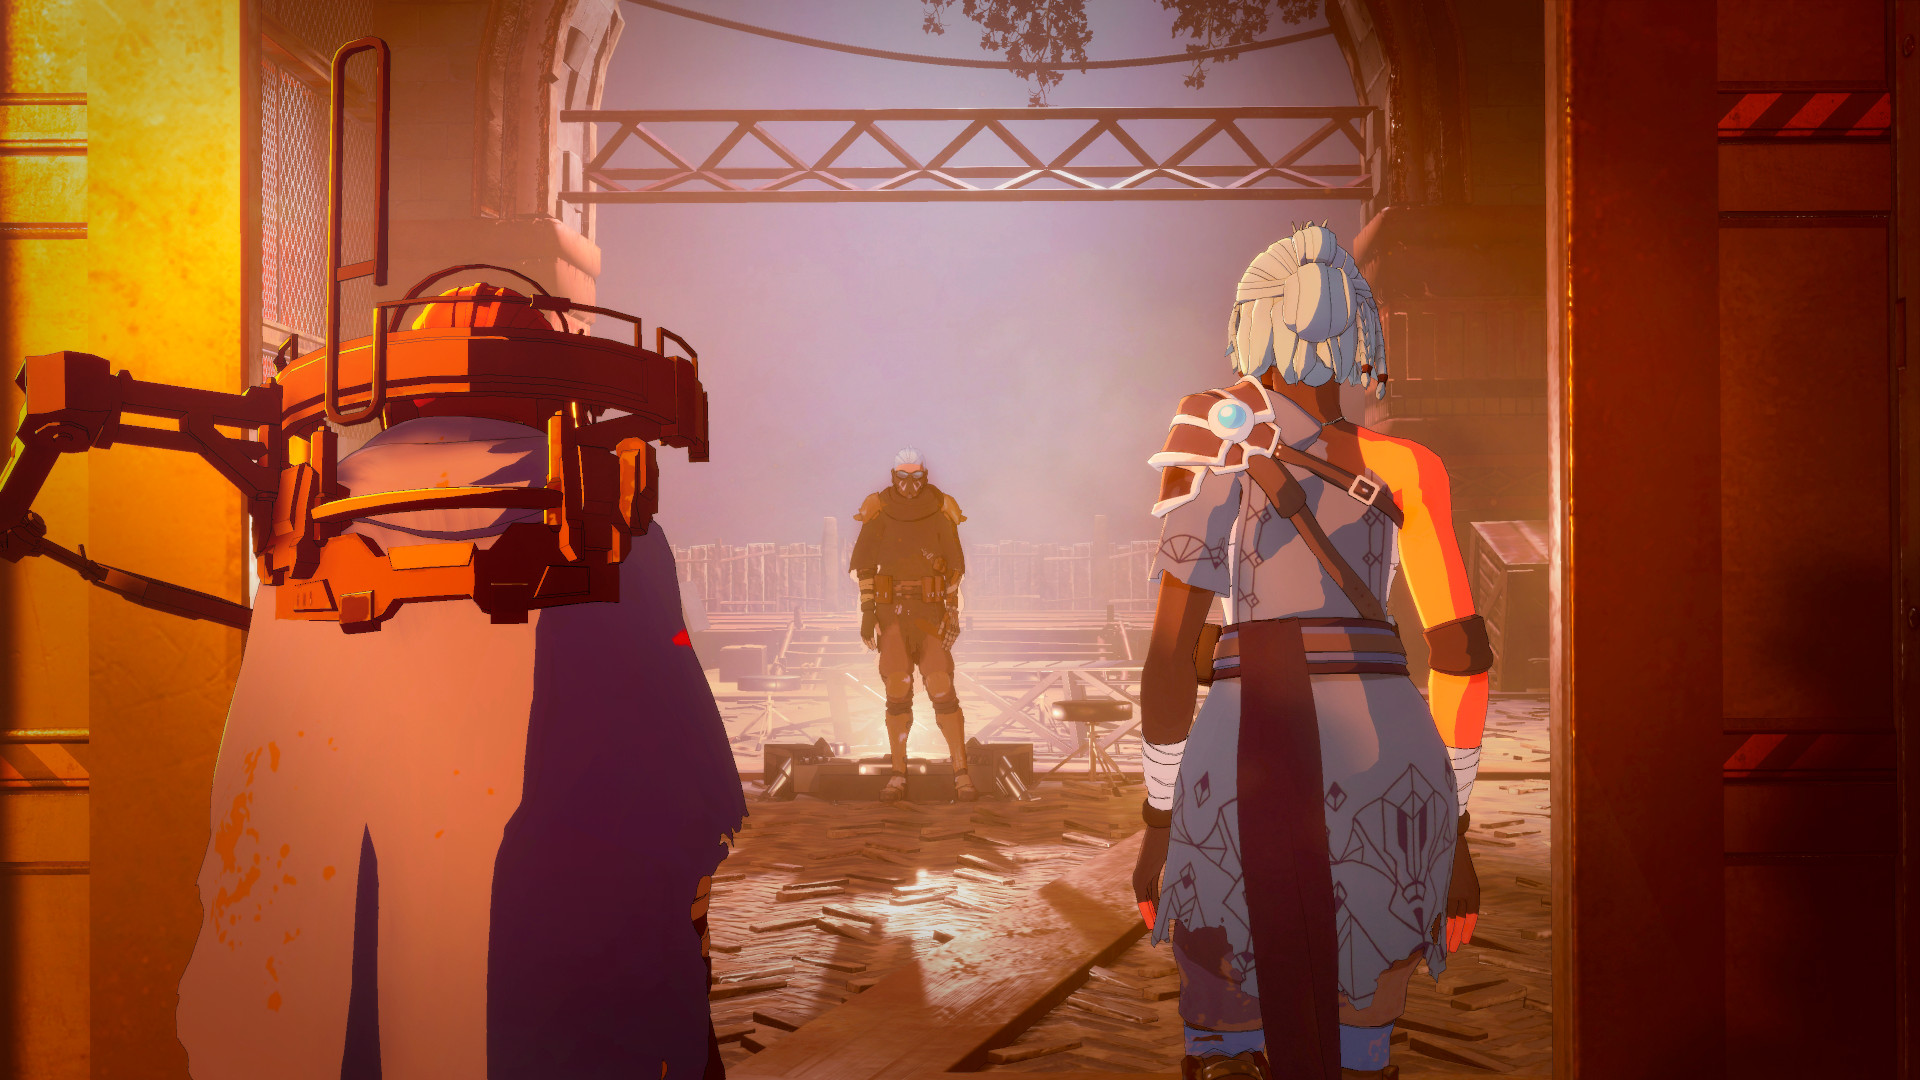
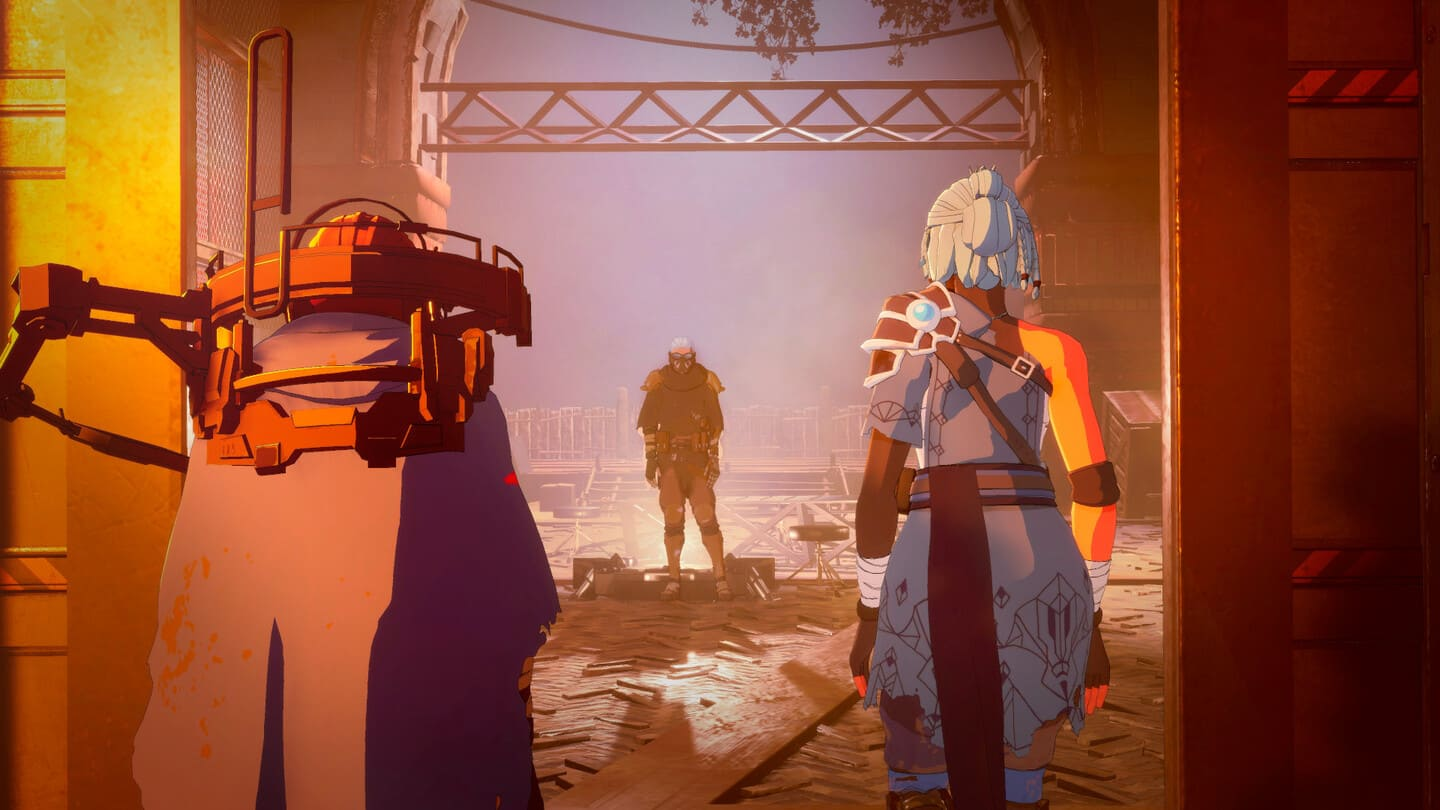
reduce image size

diff --git a/Portfolio/Ereban_LD_Provisional.html b/Portfolio/Ereban_LD_Provisional.html
@@ -398,7 +398,7 @@
 				<div class="col-md-4">
 					
 					<div class="portfolio-image-bt-text">
-						<img class="image img-modal img-fluid" src="images/Ereban/Gallery/Ereban_Screenshot_09_web.png" data-target="#carouselExample" data-slide-to="11">
+						<img class="image img-modal img-fluid" src="images/Ereban/Gallery/Ereban_Screenshot_09_web.jpg" data-target="#carouselExample" data-slide-to="11">
 					</div>			
 				</div>
 			</div>
